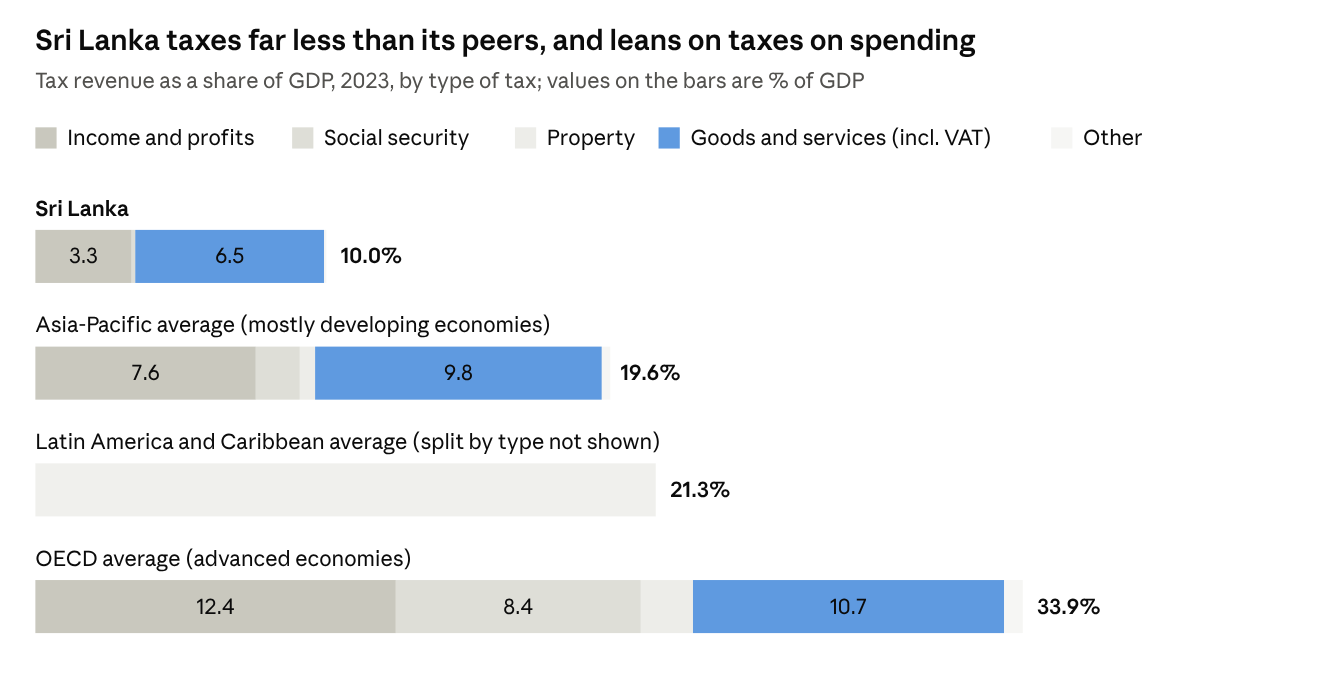
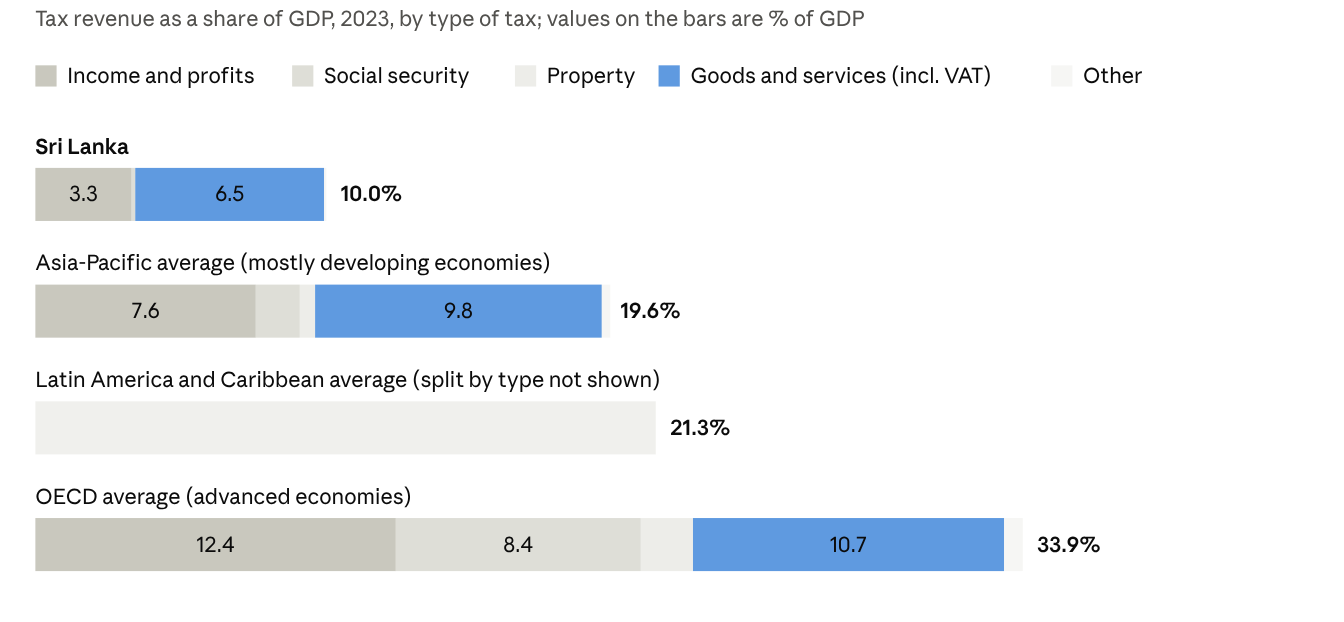
Sri Lanka debt blog: chart titles, tax wording and figure corrections
- Remove the built-in titles from the tax and imports charts; the new
  headings sit in the page text above each chart.
- Tax section: heading and wording corrected (taxes on goods and
  services about two-thirds of tax revenue); cite KPMG (2026) for the
  7.3% to 15.4% tax ratio and list it in the sources.
- Debt service: distinguish the budgeted Rs 2,950 billion from the
  interest actually paid (Rs 2.5 trillion).
- Tax ratio is the highest since 1997, not in two decades.

diff --git a/debt-crisis-sri-lanka-part-1.html b/debt-crisis-sri-lanka-part-1.html
@@ -45,25 +45,24 @@
     <p><strong>Did everyone share the pain fairly?</strong> It depends on how you measure it. The IMF says bondholders gave up about 42% of the value of what they were owed. The campaign group Debt Justice, using a different method, estimates they will get back about 80 cents for every dollar, against about 67 cents for government lenders such as China, Japan and India. On that measure, the private lenders, who had charged Sri Lanka the highest interest precisely because lending to us was risky, did better than the governments which lent us at lower interest rates.</p>
     <p>And one deal is still a black box. <strong>China Development Bank</strong> is owed over $3 billion on commercial terms. Its settlement was signed in December 2024, but the terms have never been published, making them difficult to assess.</p>
     <h3>What it costs: Nearly half of what the government collects</h3>
-    <p>In 2025, the government paid about <strong>Rs 2.5 trillion in interest</strong>, equal to 7.6% of GDP. That is about 46% of all the revenue it collected. Of every 100 rupees the government spent, about 40 went on interest and only about 16 on building roads, schools, hospitals and power.</p>
+    <p>In 2025, the government actually paid about <strong>Rs 2.5 trillion in interest</strong>, equal to 7.6% of GDP. That is about 46% of all the revenue it collected. Of every 100 rupees the government spent, about 40 went on interest and only about 16 on building roads, schools, hospitals and power.</p>
     <p>Where the government's money came from, and where it went, in 2025</p>
     <figure class="figure"><img src="images/sri-lanka-debt/fig2.png" alt="Two doughnut charts of the 2025 central government budget as a share of GDP: income of 19.0% of GDP (VAT 5.3%, income taxes 3.5%, new borrowing 2.3%) and spending of 19.0% of GDP, of which debt servicing (interest) is 7.6%, or 40% of spending."></figure>
     <p class="source">Source: IMF Country Report No. 26/111 (May 2026).</p>
-    <p>To put that in everyday terms: the 2025 Budget set aside Rs 2,950 billion for servicing debt. That was about <strong>13 times the agriculture budget</strong> and about <strong>5 times</strong> each of the health, education and transport budgets.</p>
+    <p>To put that in everyday terms: the 2025 Budget set aside a budgeted Rs 2,950 billion for servicing debt. That was about <strong>13 times the agriculture budget</strong> and about <strong>5 times</strong> each of the health, education and transport budgets.</p>
     <p>Most of this interest goes to lenders at home (about 87% in early 2025), because borrowing in rupees costs the government around 9% to 10% a year, far more than its foreign loans now cost after restructuring.</p>
     <p><strong>The restructuring bought time, not freedom.</strong> Payments on the restructured foreign debt fell from about $4.4 billion a year under the old terms to about $1.1 billion in 2025. But they rise again from 2028, and the interest on the new international bonds jumps from about 4% to over 9% after 2032. Meanwhile, every year the government must borrow about a fifth of GDP just to repay and roll over old loans. If interest rates rise, as they did in 2022, that bill rises immediately.</p>
-    <h3>Tax revenue and its sources: VAT is about three times as Income Tax</h3>
-    <p>Tax collection has more than doubled as a share of the economy, from 7.3% of GDP in 2022 to 15.4% in 2025, the highest in two decades. That was needed. The question is where this increase came from.</p>
-    <p>Most of the increase came from <strong>taxes on what we buy</strong>: VAT, raised to 18% with many exemptions removed; excise duties; and the Social Security Contribution Levy, a 2.5% tax on business turnover that is passed on in prices. In 2025 taxes on goods and services brought in about three-quarters of all tax revenue. Income taxes brought in about a quarter.</p>
+    <h3>Tax revenue and its sources: Leaning heavily on regressive VAT</h3>
+    <p>Tax collection has more than doubled as a share of the economy, from 7.3% of GDP in 2022 to 15.4% in 2025 (<a href="https://assets.kpmg.com/content/dam/kpmgsites/lk/pdf/2026/Sri_Lanka_Economic_and_Sector_Outlook.pdf">KPMG, 2026</a>), the highest since 1997. That was needed. The question is where this increase came from.</p>
+    <p>Most of the increase came from <strong>taxes on what we buy</strong>: VAT was raised to 18% with many exemptions removed; excise duties; and the Social Security Contribution Levy, a 2.5% tax on business turnover that is passed on in prices. In 2025 taxes on goods and services brought in about two-thirds of all tax revenue. Income taxes brought in about a quarter.</p>
     <p>Why does that matter? A poor family spends almost everything it earns, so a tax on spending takes a bigger slice of its income than it does from a wealthy family that saves or invests much of its income. Part of the 2025 record was also a one-off: about 2.8 points of GDP came from the rush of car imports after the ban was lifted, and that money will not be there every year.</p>
-    <p>We tax far less than our neighbours, and lean on taxes on spending</p>
-    <figure class="figure"><img src="images/sri-lanka-debt/fig3.png" alt="Bar chart of tax revenue as a share of GDP in 2023: Sri Lanka 10.0%, Asia-Pacific average 19.6%, Latin America and Caribbean average 21.3%, OECD average 33.9%."></figure>
+    <p><strong>Catching up in mobilising tax revenue, but leans heavily on regressive spending taxes (2023 data)</strong></p>
+    <figure class="figure"><img src="images/sri-lanka-debt/fig3.png?v=2" alt="Bar chart of tax revenue as a share of GDP in 2023: Sri Lanka 10.0%, Asia-Pacific average 19.6%, Latin America and Caribbean average 21.3%, OECD average 33.9%."></figure>
     <p class="source">Source: OECD, Revenue Statistics in Asia and the Pacific 2025 (2023 data). Sri Lanka's tax take has risen since, to 15.4% of GDP in 2025.</p>
-    <p>Compared with other countries, Sri Lanka collects very little from income and almost nothing from property. Our VAT rate of 18% is already close to the rate in rich countries, so there is little room left to squeeze more from spending. The room is in income, property and wealth.</p>
     <h3>Where our dollars went</h3>
     <p>Every dollar Sri Lanka spends abroad has to be earned first, by exports, tourism or the money our workers send home. So it matters what we spend those dollars on.</p>
-    <p>Motor vehicles cost more than medicines and fertilisers combined.</p>
-    <figure class="figure"><img src="images/sri-lanka-debt/fig4.png" alt="Doughnut chart of 2025 imports totalling $21.5bn: essential imports $10.2bn (48%), including fuel $4.0bn, machinery $2.5bn and food $2.1bn; not essential imports $2.7bn (13%), including motor vehicles $1.6bn; other imports $8.5bn (40%)."></figure>
+    <p><strong>Motor vehicles cost more than medicines and fertilisers combined.</strong></p>
+    <figure class="figure"><img src="images/sri-lanka-debt/fig4.png?v=2" alt="Doughnut chart of 2025 imports totalling $21.5bn: essential imports $10.2bn (48%), including fuel $4.0bn, machinery $2.5bn and food $2.1bn; not essential imports $2.7bn (13%), including motor vehicles $1.6bn; other imports $8.5bn (40%)."></figure>
     <p class="source">Source: Central Bank of Sri Lanka, Annual Economic Review 2025, Table 78.</p>
     <p>In 2025, we spent <strong>$1.6 billion on motor vehicles</strong>, compared with <strong>$0.67 billion on medicines</strong> and <strong>$0.31 billion on fertiliser</strong>. The car bill alone equalled about a fifth of everything Sri Lankans working abroad sent home that year ($8.1 billion). And each new car keeps adding to the fuel import bill for the next 15 years.</p>
     <p>This is not an argument for banning imports. In 2022 the crisis cut imports of medicines, fuel and fertiliser along with everything else, and people paid with queues, shortages and lost harvests. The point is to cut the <em>right</em> imports.</p>
@@ -91,7 +90,7 @@
     </ol>
     </div>
     <h3>Where these numbers come from</h3>
-    <p>Central Bank of Sri Lanka, Annual Economic Review 2025 and monthly external sector data; Ministry of Finance, debt bulletins and debt update (August 2026); IMF Country Reports No. 25/339 and 26/111; OECD, Revenue Statistics in Asia and the Pacific 2025; Debt Justice; and Sri Lankan news reports of official releases (Ada Derana, The Morning, EconomyNext, Newsfirst). Figures were checked against Central Bank tables in October 2026. The usable-reserves figure is an independent estimate, not an official one. A fully referenced version of this analysis is available as a research article.</p>
+    <p>Central Bank of Sri Lanka, Annual Economic Review 2025 and monthly external sector data; <a href="https://assets.kpmg.com/content/dam/kpmgsites/lk/pdf/2026/Sri_Lanka_Economic_and_Sector_Outlook.pdf">KPMG Sri Lanka, Economic and Sector Outlook 2026</a>;Ministry of Finance, debt bulletins and debt update (August 2026); IMF Country Reports No. 25/339 and 26/111; OECD, Revenue Statistics in Asia and the Pacific 2025; Debt Justice; and Sri Lankan news reports of official releases (Ada Derana, The Morning, EconomyNext, Newsfirst). Figures were checked against Central Bank tables in October 2026. The usable-reserves figure is an independent estimate, not an official one. A fully referenced version of this analysis is available as a research article.</p>
     <div class="article-nav">
       <a class="back" href="reflections.html">&larr; Reflections</a>
       <button type="button" class="download-pdf" title="Opens the print dialog; choose Save as PDF" onclick="window.print()">Download as PDF</button>
